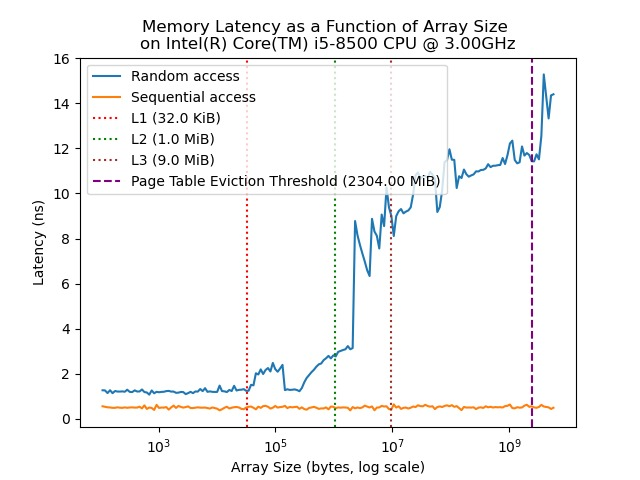
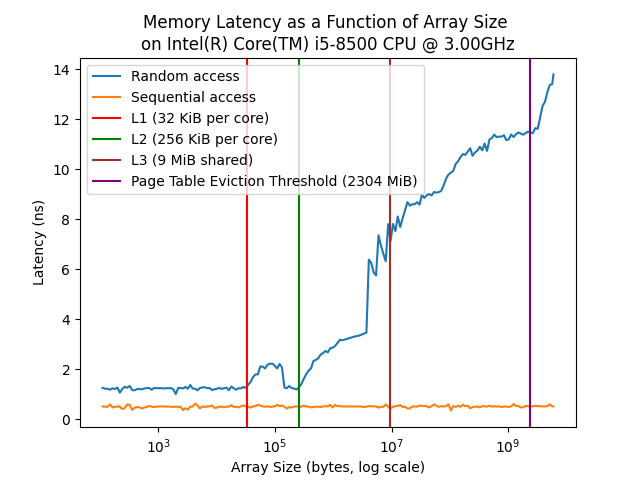
Fix graph and README

diff --git a/Project1/plot_script.py b/Project1/plot_script.py
@@ -9,8 +9,9 @@ data = data.to_numpy()
 page_size = 4096  # Page size in bytes
 address_size = 8  # Address size in bytes for a 64-bit system
 l1_size = 32 * 1024  # L1 cache size in bytes (32 KiB)
-l2_size = 1 * 1024 * 1024  # L2 cache size in bytes (1 MiB)
+l2_size = 256 * 1024  # L2 cache size in bytes (256 KiB)
 l3_size = 9 * 1024 * 1024  # L3 cache size in bytes (9 MiB)
+
 
 # Calculate the page table eviction threshold
 # This is derived from the formula:
@@ -26,10 +27,10 @@ plt.plot(data[:, 0], data[:, 2], label="Sequential access")
 plt.xscale('log')
 
 # Adding vertical lines for cache sizes and the eviction threshold
-plt.axvline(x=l1_size, label=f"L1 ({l1_size/1024} KiB)", color='red', linestyle=':')
-plt.axvline(x=l2_size, label=f"L2 ({l2_size/1024/1024} MiB)", color='green', linestyle=':')
-plt.axvline(x=l3_size, label=f"L3 ({l3_size/1024/1024} MiB)", color='brown', linestyle=':')
-plt.axvline(x=page_table_eviction_threshold, label=f"Page Table Eviction Threshold ({page_table_eviction_threshold/1024/1024:.2f} MiB)", color='purple', linestyle='--')
+plt.axvline(x=l1_size, label=f"L1 ({int(l1_size/1024)} KiB per core)", color='red')
+plt.axvline(x=l2_size, label=f"L2 ({int(l2_size/1024)} KiB per core)", color='green')
+plt.axvline(x=l3_size, label=f"L3 ({int(l3_size/1024/1024)} MiB shared)", color='brown')
+plt.axvline(x=page_table_eviction_threshold, label=f"Page Table Eviction Threshold ({int(page_table_eviction_threshold/1024/1024)} MiB)", color='purple')
 
 # Adding a legend
 plt.legend()
